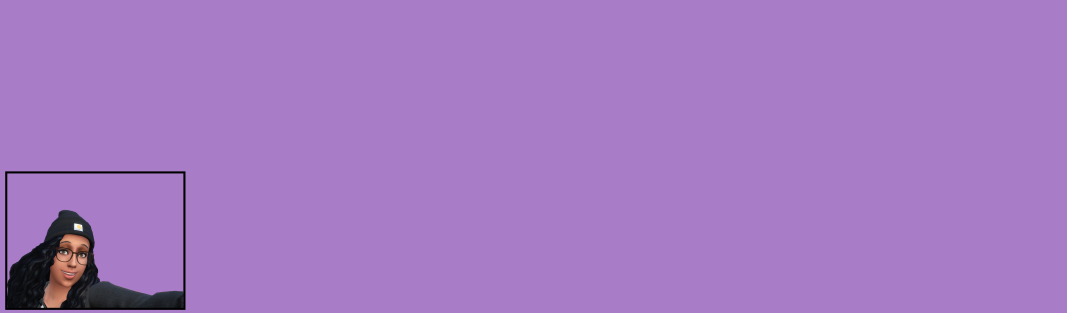
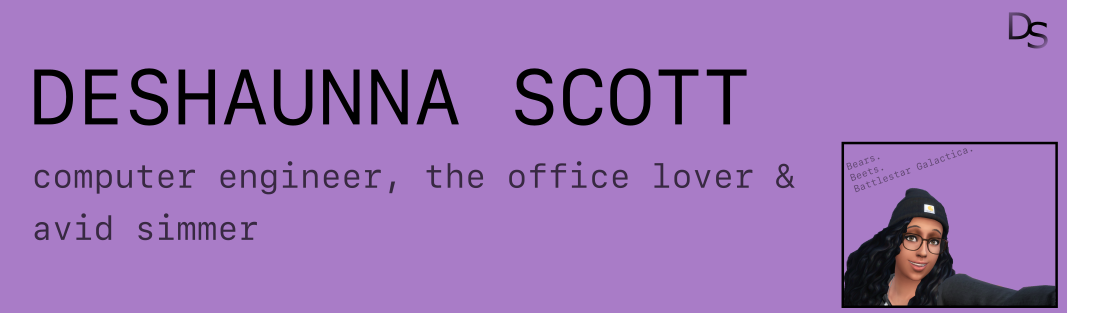
Update to Header and README

diff --git a/README.md b/README.md
@@ -1,19 +1,6 @@
-# Hi, I'm Shaun 👋🏾
+# Hi, I'm Shaun 💻🔋
 
 <img src="https://raw.githubusercontent.com/deshaunnascott/deshaunnascott/master/img/ShaunHeader.png" />
-<!--
-**deshaunnascott/deshaunnascott** is a ✨ _special_ ✨ repository because its `README.md` (this file) appears on your GitHub profile.
 
-Here are some ideas to get you started:
-
-- 🔭 I’m currently working on ...
-- 🌱 I’m currently learning ...
-- 👯 I’m looking to collaborate on ...
-- 🤔 I’m looking for help with ...
-- 💬 Ask me about ...
-- 📫 How to reach me: ...
-- 😄 Pronouns: ...
-- ⚡ Fun fact: ...
--->
 
 
